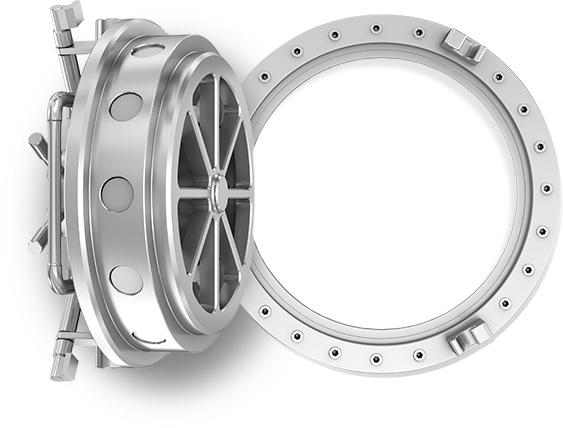
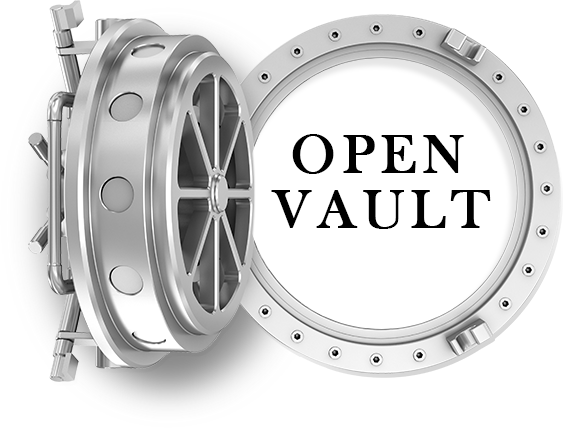
added vault open animation

Changed region(s): [[0.4831, 0.3037, 0.8757, 0.5467], [0.5435, 0.3949, 0.5737, 0.4252]]

diff --git a/wwwsrc/src/components/KeepComponent.vue b/wwwsrc/src/components/KeepComponent.vue
@@ -15,7 +15,7 @@
               <i  class="fa fa-ellipsis-v btn big-button" aria-hidden="true" role="button" data-toggle="dropdown"></i>
               <div class="dropdown-menu ml-1 text-center">
                 <p v-if="this.$route.name == 'VaultDetails'" class="btn" @click="deleteVaultKeep">Remove Keep</p>
-                <p v-if="this.$route.name == 'Home' && this.profile.id == this.keepProp.creatorId" class="btn" @click="deleteKeep">Delete Keep</p>
+                <p v-if="this.profile.id == this.keepProp.creatorId" class="btn" @click="deleteKeep">Delete Keep</p>
               </div>
             </div>
             <!-- <button type="button" class="close" data-dismiss="modal" aria-label="Close">

diff --git a/wwwsrc/src/components/VaultComponent.vue b/wwwsrc/src/components/VaultComponent.vue
@@ -61,10 +61,12 @@ name: "",
 }
 
 .overlay{
-  transition: 400ms;
+  animation-name: fadeIn;
+  animation-duration:300ms;
   width:100%;
   height:100%;  
 }
+
 .vault-card:hover .overlay{
   z-index: 2;
   background:rgba(0,0,0,.5);
@@ -80,8 +82,13 @@ name: "",
 .vault-card:hover .hide{
   display: inline-block
 }
-.vault-card:hover .card-img{
-  filter: opacity(0%);
+
+@keyframes fadeIn{
+  0% {filter: opacity(0%);}
+  25% {filter: opacity(25%);}
+  50% {filter: opacity(50%);}
+  75% {filter: opacity(75%);}
+  100% {filter: opacity(100%);}
 }
 
 </style>

diff --git a/wwwsrc/src/pages/Profile.vue b/wwwsrc/src/pages/Profile.vue
@@ -124,7 +124,7 @@
         </div>
       </div>
     </div>
-    <div class="row d-flex mt-4">
+    <div class="row d-flex justify-content-around mt-4">
         <VaultComponent v-for="vault in vaults" :key="vault.id" :vaultProp="vault"/>
     </div>
     <div class="row ">
